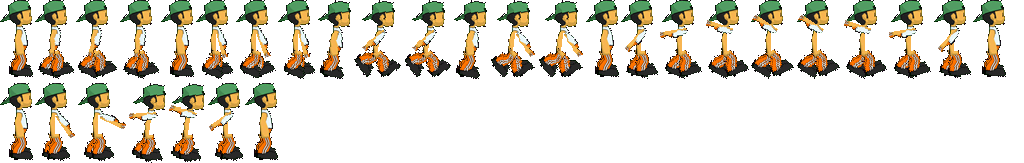
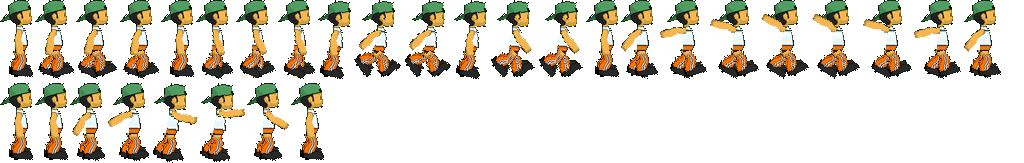
fix: preserve torso pixels during arm rotation and face attacks forward

diff --git a/LEC08/generate_sheet.py b/LEC08/generate_sheet.py
@@ -28,12 +28,16 @@ def make_frame(source, motion):
     legs = source.crop((14, 57, 37, 92))
     rotate_part(stage, legs, (x + 12, y + 57), (x + 24, y + 59), -motion["leg"])
     torso = source.crop((0, 0, 42, 60))
-    # Remove the hanging foreground arm; it is drawn separately below.
-    torso.paste((0, 0, 0, 0), (24, 38, 34, 60))
+    # Reconstruct the shirt/waist behind the foreground arm using the
+    # adjacent shirt pixels. Cutting away the shirt would leave a hole.
+    torso.paste((0, 0, 0, 0), (18, 36, 28, 60))
+    for row in range(36, 60):
+        color = source.getpixel((28, row))
+        torso.paste(color, (20, row, 28, row + 1))
     stage.alpha_composite(torso, (x, y))
     rotate_part(stage, legs, (x + 14, y + 57), (x + 25, y + 59), motion["leg"])
-    arm = source.crop((24, 37, 34, 64))
-    rotate_part(stage, arm, (x + 24, y + 37), (x + 28, y + 38), motion["arm"])
+    arm = source.crop((18, 36, 27, 62))
+    rotate_part(stage, arm, (x + 18, y + 36), (x + 23, y + 36), motion["arm"])
     if motion["lean"]:
         stage = stage.rotate(motion["lean"], Image.Resampling.NEAREST,
                              center=(64, GROUND - motion["lift"]))

diff --git a/LEC08/poses.py b/LEC08/poses.py
@@ -26,7 +26,7 @@ def pose(name, index, count):
         return dict(leg=30 * height, arm=-125 * height,
                     lift=30 * height, lean=0)
     if name == "Attack":
-        angles = (0, 35, 65, -80, -100, -55, 0)
+        angles = (0, -35, -65, 80, 100, 55, 0)
         return dict(leg=10 * sin(pi * index / (count - 1)),
                     arm=angles[index], lift=0,
                     lean=-8 if index in (3, 4) else 0)
